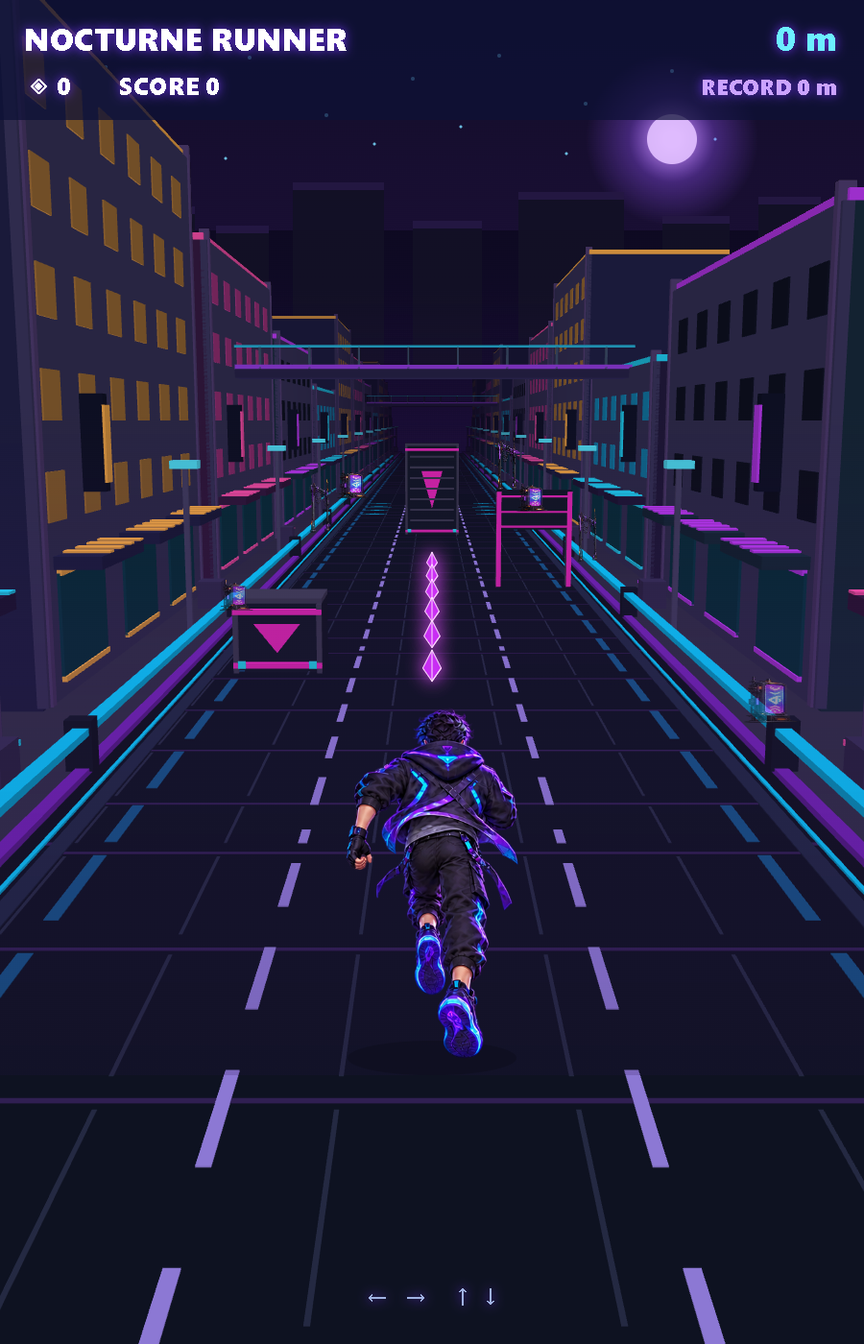
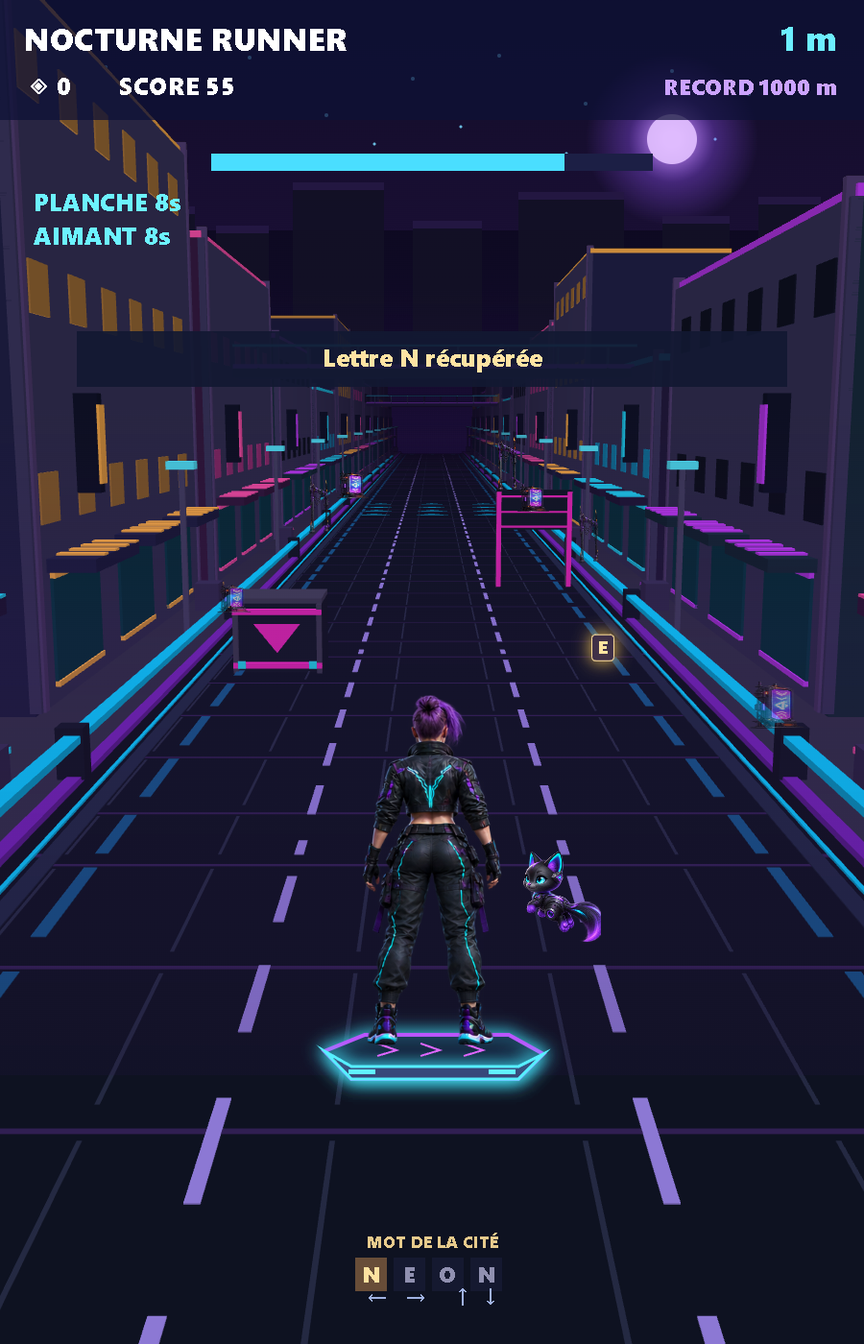
Add word collection, unlockable Nova and neon cat companion

diff --git a/profile.js b/profile.js
@@ -1,26 +1,47 @@
 (()=>{'use strict';
 const KEY='nocturneRunnerProfileV1',names={board:'Planche spectrale',magnet:'Aimant énergétique',surcharge:'Surcharge',propulsion:'Propulsion'},costs=[60,140,280,480,760];
-const profile={wallet:0,levels:{board:0,magnet:0,surcharge:0,propulsion:0},options:{effects:true,quality:'high'},stats:{crystals:0,distance:0,jumps:0,dodges:0},claimed:[]};
+const profile={wallet:0,levels:{board:0,magnet:0,surcharge:0,propulsion:0},options:{effects:true,quality:'high'},stats:{crystals:0,distance:0,jumps:0,dodges:0},claimed:[],word:{completed:0,found:[]},ownedPets:['robot'],pet:'robot',character:'runner'};
 let durable=true,audio=null;
-try{const data=JSON.parse(localStorage.getItem(KEY)||'null');if(data){for(const key of ['wallet'])profile[key]=Math.max(0,Math.floor(Number(data[key])||0));for(const key in profile.levels)profile.levels[key]=Math.max(0,Math.min(5,Math.floor(Number(data.levels?.[key])||0)));for(const key in profile.stats)profile.stats[key]=Math.max(0,Math.floor(Number(data.stats?.[key])||0));profile.options.effects=data.options?.effects!==false;profile.options.quality=data.options?.quality==='low'?'low':'high';profile.claimed=Array.isArray(data.claimed)?data.claimed.filter(v=>typeof v==='string'):[];}}catch{durable=false;}
+try{const data=JSON.parse(localStorage.getItem(KEY)||'null');if(data){for(const key of ['wallet'])profile[key]=Math.max(0,Math.floor(Number(data[key])||0));for(const key in profile.levels)profile.levels[key]=Math.max(0,Math.min(5,Math.floor(Number(data.levels?.[key])||0)));for(const key in profile.stats)profile.stats[key]=Math.max(0,Math.floor(Number(data.stats?.[key])||0));profile.options.effects=data.options?.effects!==false;profile.options.quality=data.options?.quality==='low'?'low':'high';profile.claimed=Array.isArray(data.claimed)?data.claimed.filter(v=>typeof v==='string'):[];}
+if(data){profile.word.completed=Math.max(0,Math.floor(Number(data.word?.completed)||0));profile.word.found=Array.isArray(data.word?.found)?data.word.found.map(v=>v===true):[];profile.ownedPets=Array.isArray(data.ownedPets)&&data.ownedPets.includes('cat')?['robot','cat']:['robot'];profile.pet=data.pet==='cat'&&profile.ownedPets.includes('cat')?'cat':'robot';profile.character=data.character==='nova'&&profile.word.completed>=4?'nova':'runner';}
+}catch{durable=false;}
 function save(){try{localStorage.setItem(KEY,JSON.stringify(profile));durable=true;}catch{durable=false;}refreshMenu();if(!durable)notice('Sauvegarde indisponible : progression conservée uniquement pendant cette session.');}
 function notice(s){document.querySelector('#notice').textContent=s;}
 profile.sound=frequency=>{if(!profile.options.effects)return;try{audio ||=new (window.AudioContext||window.webkitAudioContext)();if(audio.state==='suspended')audio.resume();const o=audio.createOscillator(),g=audio.createGain();o.frequency.value=frequency;o.type='sine';g.gain.setValueAtTime(.025,audio.currentTime);g.gain.exponentialRampToValueAtTime(.001,audio.currentTime+.07);o.connect(g);g.connect(audio.destination);o.start();o.stop(audio.currentTime+.08);}catch{}};
 profile.bankRun=(amount,distance,stats)=>{profile.wallet+=amount;profile.stats.crystals+=amount;profile.stats.distance=Math.max(profile.stats.distance,distance);profile.stats.jumps+=stats.jumps;profile.stats.dodges+=stats.dodges;save();};
+const words=[{label:'NÉON',letters:'NEON'},{label:'OMBRE',letters:'OMBRE'},{label:'NOVA',letters:'NOVA'},{label:'ÉCLIPSE',letters:'ECLIPSE'}];
+profile.currentWord=()=>words[profile.word.completed%words.length];
+profile.word.found=Array.from({length:profile.currentWord().letters.length},(_,i)=>profile.word.found[i]===true);
+profile.nextLetter=()=>{const slot=profile.word.found.findIndex(v=>!v);return {slot,letter:profile.currentWord().letters[slot],wordId:profile.word.completed};};
+profile.collectLetter=o=>{
+ if(o.wordId!==profile.word.completed||o.slot<0||o.slot>=profile.word.found.length||profile.word.found[o.slot]||profile.currentWord().letters[o.slot]!==o.letter)return null;
+ profile.word.found[o.slot]=true;let message='Lettre '+o.letter+' récupérée';
+ if(profile.word.found.every(Boolean)){const label=profile.currentWord().label,reward=50+profile.word.found.length*10;profile.wallet+=reward;profile.word.completed++;profile.word.found=Array(profile.currentWord().letters.length).fill(false);message=label+' complété · +'+reward+' ◈';if(profile.word.completed===4)message+=' · NOVA DÉBLOQUÉE';}
+ save();return message;
+};
+profile.buyPet=id=>{if(id!=='cat'||profile.ownedPets.includes(id)||profile.wallet<250)return false;profile.wallet-=250;profile.ownedPets.push(id);profile.pet=id;save();return true;};
+profile.equipPet=id=>{if(!profile.ownedPets.includes(id))return false;profile.pet=id;save();window.NRGame?.preview();return true;};
+profile.equipCharacter=id=>{if(id!=='runner'&&(id!=='nova'||profile.word.completed<4))return false;profile.character=id;save();window.NRGame?.preview();return true;};
+function wordTiles(){return '<div class="word-tiles">'+[...profile.currentWord().letters].map((c,i)=>'<span class="'+(profile.word.found[i]?'found':'')+'">'+c+'</span>').join('')+'</div>';}
+function characterCard(id,title,description){const nova=id==='nova',unlocked=!nova||profile.word.completed>=4;return '<article class="card collection-card"><canvas class="portrait '+(nova?'nova-portrait':'runner-portrait')+'" width="210" height="370" aria-hidden="true"></canvas><div><h3>'+title+'</h3><p>'+description+'</p>'+(nova&&!unlocked?'<p>'+Math.min(4,profile.word.completed)+'/4 mots complétés pour la débloquer.</p>':'')+'<button data-character="'+id+'" '+(!unlocked||profile.character===id?'disabled':'')+'>'+(profile.character===id?'Équipé':unlocked?'Équiper':'À gagner')+'</button></div></article>';}
 const missions=[{id:'crystals30',name:'Récolte nocturne',key:'crystals',goal:30,reward:40,unit:'cristaux au total'},{id:'distance250',name:'Première traversée',key:'distance',goal:250,reward:60,unit:'mètres en une course'},{id:'jumps15',name:'Au-dessus des néons',key:'jumps',goal:15,reward:40,unit:'sauts au total'},{id:'dodges20',name:'Instinct du runner',key:'dodges',goal:20,reward:60,unit:'obstacles évités'}];
+function paintPortraits(){document.querySelectorAll('canvas.portrait,canvas.cat-portrait').forEach(canvas=>{const nova=canvas.classList.contains('nova-portrait'),cat=canvas.classList.contains('cat-portrait');const image=new Image();image.onload=()=>{const rect=nova?NRSPRITES.nova.frames[0]:cat?NRSPRITES.cat.frames[0]:[0,0,image.naturalWidth,image.naturalHeight];const sc=Math.min((canvas.width-10)/rect[2],(canvas.height-10)/rect[3]);const w=rect[2]*sc,h=rect[3]*sc;canvas.getContext('2d').drawImage(image,...rect,(canvas.width-w)/2,(canvas.height-h)/2,w,h);};image.src=nova?'assets/nova-sheet.png':cat?'assets/cat-sheet.png':'nocturne runner/perso_dos/asset_01.png';});}
 let page='';
 window.NRProfile=profile;
 window.refreshMenu=()=>{document.querySelector('#wallet').textContent='◈ '+profile.wallet;};
 function levels(n){return '<div class="levels">'+Array.from({length:5},(_,i)=>'<i class="'+(i<n?'on':'')+'"></i>').join('')+'</div>';}
-function show(p){page=p;document.querySelector('#home-screen').hidden=true;document.querySelector('#detail-screen').hidden=false;document.querySelector('#notice').textContent='';const target=document.querySelector('#detail-content');document.querySelector('#detail-title').textContent={atelier:'Atelier',collection:'Collection',missions:'Missions',options:'Options'}[p];
+function show(p){page=p;document.querySelector('#home-screen').hidden=true;document.querySelector('#detail-screen').hidden=false;document.querySelector('#notice').textContent='';const target=document.querySelector('#detail-content');document.querySelector('#detail-title').textContent={atelier:'Atelier',collection:'Personnages',boutique:'Compagnons',words:'Mots de la cité',missions:'Missions',options:'Options'}[p];
 if(p==='atelier')target.innerHTML='<p class="intro">Investis tes cristaux. Chaque achat améliore les prochaines courses.</p>'+Object.keys(names).map(k=>{const n=profile.levels[k],next=k==='propulsion'?`${4+n} s · vitesse +${Math.round((.22+n*.035)*100)} %`:`${8+n*2} secondes`;return `<article class="card"><div class="card-head"><h3>${names[k]}</h3><span class="tag">${n}/5</span></div><p>${k==='board'?'Absorbe un choc.':k==='magnet'?'Un compagnon attire les cristaux des trois voies.':k==='surcharge'?'Double les points pendant le bonus.':'Un boost par course, bouton ⚡ ou touche B.'} ${next}</p>${levels(n)}<button data-buy="${k}" ${n===5||profile.wallet<costs[n]?'disabled':''}>${n===5?'NIVEAU MAX':`Améliorer · ${costs[n]} ◈`}</button></article>`;}).join('');
 if(p==='missions')target.innerHTML='<p class="intro">La progression est comptabilisée à la fin de chaque course.</p>'+missions.map(m=>{const value=Math.min(m.goal,profile.stats[m.key]),claimed=profile.claimed.includes(m.id);return `<article class="card"><h3>${m.name}</h3><p>${value}/${m.goal} ${m.unit}</p><progress value="${value}" max="${m.goal}"></progress><p>Récompense : ${m.reward} ◈</p><button data-claim="${m.id}" ${claimed||value<m.goal?'disabled':''}>${claimed?'Récupérée':'Récupérer'}</button></article>`;}).join('');
-if(p==='collection')target.innerHTML='<p class="intro">Ton équipement actuel est prêt. Les variantes arriveront dans une prochaine version.</p><article class="card"><div class="card-head"><h3>Runner Nocturne</h3><span class="tag">ÉQUIPÉ</span></div><p>Tenue noire, circuits violets et semelles cyan.</p></article><article class="card"><h3>Planche spectrale</h3><p>Disponible comme bonus pendant la course.</p></article><article class="card"><h3>Tenues et planches alternatives</h3><p>Bientôt · modèles et sélection à venir.</p></article>';
+if(p==='collection')target.innerHTML='<p class="intro">Choisis ton runner. Les personnages partagent les mêmes capacités.</p>'+characterCard('runner','Runner Nocturne','Le premier explorateur de la cité néon.')+characterCard('nova','Nova','Circuits cyan, cheveux violets et détermination. Complète NÉON, OMBRE, NOVA et ÉCLIPSE.');
+if(p==='boutique')target.innerHTML='<p class="intro">Ton compagnon vient à tes côtés pendant le bonus aimant. Même collecte, une autre personnalité.</p><article class="card collection-card"><div class="pet-icon">🤖</div><div><h3>Robot éclaireur</h3><p>Ton premier allié. Disponible gratuitement.</p><button data-pet="robot" '+(profile.pet==='robot'?'disabled':'')+'>'+(profile.pet==='robot'?'Équipé':'Équiper')+'</button></div></article><article class="card collection-card"><canvas class="cat-portrait" width="210" height="220" aria-hidden="true"></canvas><div><h3>Chat néon</h3><p>Un félin cyber qui attrape tes fragments.</p><button '+(profile.ownedPets.includes('cat')?'data-pet="cat"':'data-pet-buy="cat"')+' '+(profile.pet==='cat'||(!profile.ownedPets.includes('cat')&&profile.wallet<250)?'disabled':'')+'>'+(profile.pet==='cat'?'Équipé':profile.ownedPets.includes('cat')?'Équiper':'Adopter · 250 ◈')+'</button></div></article><article class="card"><div class="card-head"><h3>Renard spectral</h3><span class="tag">BIENTÔT</span></div><p>Un compagnon aux traces violettes. Modèle et animations à venir.</p></article><article class="card"><div class="card-head"><h3>Corbeau cyber</h3><span class="tag">BIENTÔT</span></div><p>Un éclaireur aux plumes lumineuses. Modèle et animations à venir.</p></article>';
+if(p==='words')target.innerHTML='<p class="intro">Ramasse les lettres dorées sur la route. Les accents ne sont pas à collecter. Chaque mot terminé rapporte des cristaux immédiatement.</p><article class="card"><div class="card-head"><h3>'+profile.currentWord().label+'</h3><span class="tag">'+(50+profile.word.found.length*10)+' ◈</span></div>'+wordTiles()+'<p>'+profile.word.completed+' mots complétés · progression sauvegardée à chaque lettre.</p></article><article class="card"><h3>Le chemin de Nova</h3><p>NÉON → OMBRE → NOVA → ÉCLIPSE</p><progress value="'+Math.min(4,profile.word.completed)+'" max="4"></progress><p>'+Math.min(4,profile.word.completed)+'/4 mots · '+(profile.word.completed>=4?'Nova est disponible dans Personnages.':'Complète cette série pour gagner Nova.')+'</p></article>';
 if(p==='options')target.innerHTML=`<article class="card"><label class="option">Effets sonores<input id="effects" type="checkbox" ${profile.options.effects?'checked':''}></label><label class="option">Qualité graphique<select id="quality"><option value="high" ${profile.options.quality==='high'?'selected':''}>Élevée</option><option value="low" ${profile.options.quality==='low'?'selected':''}>Économique</option></select></label><p>Économique : moins de fenêtres et d’effets lumineux.</p><div class="option">Musique <span class="tag">BIENTÔT</span></div></article><article class="card"><h3>Commandes</h3><p>← → : changer de voie<br>↑ ou espace : sauter<br>↓ : glisser sous les lasers<br>B : propulsion · Échap : pause<br>Mobile : gestes directionnels, bouton ⚡ pour le boost.</p><p>Caisse et barrière : saut ou esquive. Conteneur : esquive. Portique laser : glissade ou esquive.</p></article>`;
+paintPortraits();
 }
 document.querySelectorAll('[data-page]').forEach(b=>b.addEventListener('click',()=>show(b.dataset.page)));
 document.querySelector('#back').addEventListener('click',()=>{document.querySelector('#detail-screen').hidden=true;document.querySelector('#home-screen').hidden=false;notice('');});
-document.querySelector('#detail-content').addEventListener('click',e=>{const b=e.target.closest('button');if(!b||b.disabled)return;if(b.dataset.buy){const k=b.dataset.buy,n=profile.levels[k];if(n>=5||profile.wallet<costs[n])return;profile.wallet-=costs[n];profile.levels[k]++;save();show(page);notice(names[k]+' améliorée.');}if(b.dataset.claim){const m=missions.find(m=>m.id===b.dataset.claim);if(!m||profile.claimed.includes(m.id)||profile.stats[m.key]<m.goal)return;profile.claimed.push(m.id);profile.wallet+=m.reward;save();show(page);notice('+'+m.reward+' cristaux reçus.');}});
+document.querySelector('#detail-content').addEventListener('click',e=>{const b=e.target.closest('button');if(!b||b.disabled)return;let message='';if(b.dataset.petBuy&&profile.buyPet(b.dataset.petBuy))message='Chat néon adopté et équipé.';if(b.dataset.pet&&profile.equipPet(b.dataset.pet))message='Compagnon équipé.';if(b.dataset.character&&profile.equipCharacter(b.dataset.character))message='Personnage équipé.';if(message){show(page);notice(message);return;}if(b.dataset.buy){const k=b.dataset.buy,n=profile.levels[k];if(n>=5||profile.wallet<costs[n])return;profile.wallet-=costs[n];profile.levels[k]++;save();show(page);notice(names[k]+' améliorée.');}if(b.dataset.claim){const m=missions.find(m=>m.id===b.dataset.claim);if(!m||profile.claimed.includes(m.id)||profile.stats[m.key]<m.goal)return;profile.claimed.push(m.id);profile.wallet+=m.reward;save();show(page);notice('+'+m.reward+' cristaux reçus.');}});
 document.querySelector('#detail-content').addEventListener('change',e=>{if(e.target.id==='effects'){profile.options.effects=e.target.checked;profile.sound(700);}if(e.target.id==='quality')profile.options.quality=e.target.value;save();});
 refreshMenu();if(!durable)notice('Sauvegarde indisponible dans ce navigateur.');
 })();

diff --git a/game.js b/game.js
@@ -21,7 +21,7 @@
   let board = 0, jump = 0, slide = 0, stun = 0;
   let last = 0, frame = 0;
   let best = 0;
-  let collectedFragments=[];
+  let collectedFragments=[],wordToast='',wordToastTime=0;
   let magnet=0, surcharge=0, propulsion=0, chargeReady=true, wave=0, safeLane=1;
   let runStats={jumps:0, dodges:0};
   const duration=k=>8+NRProfile.levels[k]*2;
@@ -31,6 +31,7 @@
 
   const img = {};
   const manifest = {
+    novaSheet:'@assets/nova-sheet.png',catSheet:'@assets/cat-sheet.png',
     run: ['perso_dos/asset_04.png', 'perso_dos/asset_05.png', 'perso_dos/asset_04.png', 'perso_dos/asset_06.png'],
     idle: 'perso_dos/asset_01.png',
     jump: 'perso_dos/asset_07.png',
@@ -78,7 +79,7 @@
   function load(p) {
     const i = new Image();
     i.onload = () => { if (state !== 'playing') render(); };
-    i.src = 'nocturne runner/' + p;
+    i.src = p.startsWith('@') ? p.slice(1) : 'nocturne runner/' + p;
     return i;
   }
 
@@ -119,7 +120,7 @@
     lane = px = 1;
     dist = score = orbs = scroll = frame = 0;
     objects = [];
-    collectedFragments=[]; wave=0; safeLane=1; magnet=surcharge=propulsion=0; chargeReady=true; runStats={jumps:0,dodges:0};
+    collectedFragments=[]; wordToast='';wordToastTime=0; wave=0; safeLane=1; magnet=surcharge=propulsion=0; chargeReady=true; runStats={jumps:0,dodges:0};
     for(let z=-26;z>-150;z-=24) spawnObj(z);
     speed = 0.34;
     spawn = 26;
@@ -212,9 +213,11 @@
     for(const l of blocked.slice(0,count))objects.push({lane:l,z,type:hazards[wave%4],hit:false});
     for(let j=0;j<5;j++)objects.push({lane:safeLane,z:z+5-j*2.3,type:'crystal',hit:false});
     if(wave%3===1)objects.push({lane:safeLane,z:z-9,type:['board','magnet','surcharge'][Math.floor(wave/3)%3],hit:false});
+    if(wave%2===0){const w=NRProfile.currentWord();const available=[...w.letters].map((letter,slot)=>({letter,slot,wordId:NRProfile.word.completed})).filter(o=>!NRProfile.word.found[o.slot]&&!objects.some(p=>p.type==='letter'&&!p.hit&&p.wordId===o.wordId&&p.slot===o.slot));if(available.length)objects.push({lane:safeLane,z:z-13,type:'letter',hit:false,...available[0]});}
     wave++;
   }
   function update(dt){
+    wordToastTime=Math.max(0,wordToastTime-dt);
     collectedFragments=collectedFragments.filter(f=>(f.time-=dt)>0);
     px+=(lane-px)*Math.min(1,dt*15);
     const base=Math.min(.73,.34+dist/7000);
@@ -234,6 +237,7 @@
       if(!o.hit&&((crossing&&(close||collect))||(magnet>0&&o.type==='crystal'&&o.z>-7&&o.z<2.4))){
         o.hit=true;
         if(o.type==='crystal'){if(magnet>0){const q=projectWorld((o.lane-1)*3.66,1.05,o.z);if(q)collectedFragments.push({x:q.x,y:q.y,time:.45});}orbs++;score+=10*(surcharge>0?2:1);NRProfile.sound(900);}
+        else if(o.type==='letter'){const result=NRProfile.collectLetter(o);if(result){wordToast=result;wordToastTime=4;score+=50;NRProfile.sound(1100);}}
         else if(o.type==='board'){board=duration('board');NRProfile.sound(500);}
         else if(o.type==='magnet'){magnet=duration('magnet');NRProfile.sound(700);}
         else if(o.type==='surcharge'){surcharge=duration('surcharge');NRProfile.sound(800);}
@@ -471,12 +475,15 @@
   function entities(){
     for(const o of objects.slice().sort((a,b)=>a.z-b.z)){
       if(o.hit||o.z>10)continue;
+      if(o.type==='letter'&&(o.wordId!==NRProfile.word.completed||NRProfile.word.found[o.slot]))continue;
       if(window.NR3D&&hazards.includes(o.type))continue;
-      const pos=projectWorld((o.lane-1)*3.66,o.type==='crystal'?1.05:0,o.z);if(!pos)continue;
+      const pos=projectWorld((o.lane-1)*3.66,(o.type==='crystal'||o.type==='letter')?1.05:0,o.z);if(!pos)continue;
       const size=95*Math.max(.12,Math.min(2.2,pos.scale));
       if(o.type==='crystal'){
         ctx.save();ctx.translate(pos.x,pos.y);ctx.shadowColor='#e84cff';ctx.shadowBlur=NRProfile.options.quality==='low'?0:18;
         ctx.beginPath();ctx.moveTo(0,-size*.55);ctx.lineTo(size*.28,0);ctx.lineTo(0,size*.4);ctx.lineTo(-size*.28,0);ctx.closePath();ctx.fillStyle='#c42af1';ctx.fill();ctx.strokeStyle='#ffe0ff';ctx.lineWidth=Math.max(1,size*.025);ctx.stroke();ctx.beginPath();ctx.moveTo(0,-size*.55);ctx.lineTo(0,size*.4);ctx.lineTo(size*.28,0);ctx.stroke();ctx.restore();
+       }else if(o.type==='letter'){
+        ctx.save();ctx.translate(pos.x,pos.y);ctx.strokeStyle='#ffe09b';ctx.fillStyle='#352746';ctx.shadowColor='#f8c954';ctx.shadowBlur=18;ctx.lineWidth=Math.max(1,size*.025);ctx.beginPath();ctx.roundRect(-size*.36,-size*.53,size*.72,size*.85,size*.12);ctx.fill();ctx.stroke();text(o.letter,0,size*.10,size*.6,'center','#ffe4a0');ctx.restore();
       }else if(o.type==='board'){ctx.save();ctx.translate(pos.x,pos.y-size*.3);ctx.scale(size/160,size/160);hoverboard(0,0);ctx.restore();
       }else if(!hazards.includes(o.type)){
         ctx.fillStyle='#11172d';ctx.strokeStyle=o.type==='board'?'#bc56ff':'#53efff';ctx.lineWidth=3;ctx.fillRect(pos.x-size*.45,pos.y-size,size*.9,size*.9);ctx.strokeRect(pos.x-size*.45,pos.y-size,size*.9,size*.9);
@@ -501,7 +508,9 @@
     for(const f of collectedFragments){const t=1-f.time/.45,e=1-Math.pow(1-t,2),fx=f.x+(cx-f.x)*e,fy=f.y+(cy-f.y)*e;
       ctx.globalAlpha=1-t*.5;ctx.strokeStyle='#dd5aff';ctx.lineWidth=2;ctx.beginPath();ctx.moveTo(fx-8,fy);ctx.lineTo(fx,fy-15);ctx.lineTo(fx+8,fy);ctx.lineTo(fx,fy+12);ctx.closePath();ctx.stroke();
     }
-    ctx.globalAlpha=1;ctx.translate(cx,cy);ctx.shadowColor='#6debff';ctx.shadowBlur=15;
+    ctx.globalAlpha=1;
+    if(NRProfile.pet==='cat'&&img.catSheet.complete&&img.catSheet.naturalWidth){const index=collectedFragments.length?1:Math.floor(frame/3)%4;drawSprite(img.catSheet,NRSPRITES.cat.frames[index],cx,cy+44,95*NRSPRITES.cat.frames[index][3]/NRSPRITES.cat.frames[0][3]);ctx.restore();return;}
+    ctx.translate(cx,cy);ctx.shadowColor='#6debff';ctx.shadowBlur=15;
     ctx.fillStyle='#152943';ctx.strokeStyle='#64eaff';ctx.lineWidth=2.5;
     ctx.beginPath();ctx.roundRect(-25,-33,50,39,12);ctx.fill();ctx.stroke();
     ctx.fillStyle='#050e20';ctx.fillRect(-17,-21,34,17);ctx.fillStyle='#70f3ff';for(const dx of [-10,10])ctx.fillRect(dx-3,-16,6,7);
@@ -511,6 +520,10 @@
     ctx.fillStyle='#ff8cea';ctx.beginPath();ctx.arc(0,-47,4,0,Math.PI*2);ctx.fill();
     const glow=ctx.createRadialGradient(0,43,1,0,43,20);glow.addColorStop(0,'#62eaffaa');glow.addColorStop(1,'#62eaff00');ctx.fillStyle=glow;ctx.fillRect(-22,34,44,33);
     ctx.restore();
+  }
+  function drawSprite(image,rect,x,feet,height){
+    if(!image?.complete||!image.naturalWidth||!rect)return;
+    const width=height*rect[2]/rect[3];ctx.drawImage(image,rect[0],rect[1],rect[2],rect[3],x-width/2,feet-height,width,height);
   }
   function player(){
     const foot=projectWorld((px-1)*3.66,0,2.4),x=foot?foot.x:CX+(px-1)*215,ground=foot?foot.y:1106;
@@ -523,7 +536,11 @@
     const feet=ground-lift-hover;
     ctx.fillStyle='rgba(5,8,20,.42)';ctx.beginPath();ctx.ellipse(x,ground+5,board>0?105:70,15,0,0,Math.PI*2);ctx.fill();
     if(board>0)hoverboard(x,feet+14);
-    const {w}=imageSize(im,h);draw(im,x-w/2,feet-h,w,h);
+    if(NRProfile.character==='nova'&&img.novaSheet.complete&&img.novaSheet.naturalWidth){
+      const pose=jump>0?3:slide>0?4:board>0||state==='over'?0:1+Math.floor(frame/2)%2;
+      const rect=NRSPRITES.nova.frames[pose];
+      drawSprite(img.novaSheet,rect,x,feet,pose===4?210:365*rect[3]/NRSPRITES.nova.frames[0][3]);
+    }else{const {w}=imageSize(im,h);draw(im,x-w/2,feet-h,w,h);}
     if(magnet>0)companion(x,feet);
   }
 
@@ -541,6 +558,10 @@
       ctx.fillRect(220, 160, 460 * (board / duration('board')), 18);
     }
     let y=220;for(const [name,t] of [['PLANCHE',board],['AIMANT',magnet],['SCORE ×2',surcharge],['PROPULSION',propulsion]])if(t>0){text(name+' '+Math.ceil(t)+'s',35,y,25,'left','#6cf2ff');y+=35;}
+    const letters=NRProfile.currentWord().letters,found=NRProfile.word.found;
+    text('MOT DE LA CITÉ',450,1300,17,'center','#e6ca8c');
+    const total=letters.length*40;for(let i=0;i<letters.length;i++){const lx=450-total/2+i*40;ctx.fillStyle=found[i]?'#684d38':'#151930';ctx.fillRect(lx,1310,33,35);text(letters[i],lx+16,1336,23,'center',found[i]?'#ffe1a0':'#9090b0');}
+    if(wordToastTime>0){ctx.fillStyle='#121832e8';ctx.fillRect(80,345,740,58);text(wordToast,450,382,wordToast.length>45?20:25,'center','#ffe3a3');}
     text('←  →    ↑  ↓', 450, 1360, 27, 'center', '#a0b2e2');
   }
 
@@ -562,8 +583,9 @@
     if (state === 'playing') requestAnimationFrame(loop);
   }
 
-  window.NRGame={home(){if(state==='playing')return;state='menu';showOverlay('LA CITÉ T’ATTEND','JOUER');msg.textContent='Trois voies. Une cité. Repousse tes limites.';pauseBtn.classList.add('hidden');document.querySelector('#boost-control').classList.add('hidden');render();},activateBoost};
+  window.NRGame={preview(){if(state!=='playing')render();},home(){if(state==='playing')return;state='menu';showOverlay('LA CITÉ T’ATTEND','JOUER');msg.textContent='Trois voies. Une cité. Repousse tes limites.';pauseBtn.classList.add('hidden');document.querySelector('#boost-control').classList.add('hidden');render();},activateBoost};
   document.querySelector('#boost-control').addEventListener('click',activateBoost);
   objects=[{lane:0,z:-18,type:'crate',hit:false},{lane:2,z:-34,type:'laser',hit:false},{lane:1,z:-57,type:'container',hit:false},...Array.from({length:6},(_,i)=>({lane:1,z:-12-i*4,type:'crystal',hit:false}))];
+  objects.push({lane:2,z:-15,type:'letter',hit:false,...NRProfile.nextLetter()});
   render();
 })();

diff --git a/menu.css b/menu.css
@@ -1,1 +1,5 @@
 *{box-sizing:border-box}body{margin:0;background:#070917;color:#eef3ff;font:500 15px system-ui,Arial;overflow:hidden}button,input{font:inherit}button{cursor:pointer;color:inherit}button:focus-visible,input:focus-visible{outline:3px solid #65eeff;outline-offset:4px}[hidden],.hidden{display:none!important}#app{height:100dvh;display:flex;justify-content:center;align-items:center;background:radial-gradient(ellipse,#241a47,#060713 80%)}canvas{height:100%;max-width:100%;object-fit:contain;touch-action:none}#overlay{position:fixed;inset:0;display:grid;place-items:center;padding:18px;background:linear-gradient(90deg,#07081788,#08091944,#080919aa);backdrop-filter:blur(3px)}.panel{position:relative;width:min(100%,520px);max-height:94dvh;overflow-y:auto;padding:26px;background:linear-gradient(140deg,#161d38f5,#130c28f5);border:1px solid #7964bc;border-radius:24px;box-shadow:0 20px 100px #040410,0 0 38px #ab36ff24}header{display:flex;justify-content:space-between;align-items:center}.eyebrow{font-size:11px;letter-spacing:2px;color:#a5b9d8}.wallet{border:1px solid #9c4ae0;background:#49216c66;padding:8px 14px;border-radius:30px;color:#f3b3ff;font-weight:800}.brand{font-size:clamp(33px,8vw,53px);font-style:italic;font-weight:950;letter-spacing:-2px;line-height:.98;margin:32px 0 24px;text-shadow:0 0 24px #687fff66}.brand span{display:block;color:#e869ff;letter-spacing:7px;font-size:.65em;margin-top:8px}#msg{color:#bed0e6;line-height:1.6;margin:16px 0 24px}.primary{width:100%;display:flex;justify-content:space-between;padding:18px 23px;border:0;border-radius:12px;background:linear-gradient(100deg,#9231ea,#d546ed 55%,#32cbea);font-weight:900;letter-spacing:2px;box-shadow:0 8px 32px #ac30de30}nav{display:grid;grid-template-columns:1fr 1fr;gap:10px;margin-top:19px}nav button,.card{background:#11192dee;border:1px solid #34425e;border-radius:12px;padding:16px;text-align:left}nav button:hover,.back:hover{border-color:#d263f3}nav small{display:block;margin-top:7px;color:#899bb7;font-size:11px}.hint{text-align:center;font-size:11px;line-height:1.8;color:#8295b1;margin:21px 0}footer{border-top:1px solid #2c304b;padding-top:14px;font-size:10px;letter-spacing:2px;color:#71809d}.back{background:transparent;border:1px solid #364460;border-radius:8px;padding:8px 12px;margin-top:18px}h2{font-size:29px;margin-bottom:10px}.intro{color:#9cafca;line-height:1.6;font-size:13px}.card{margin:10px 0}.card-head{display:flex;justify-content:space-between;gap:12px}.card h3{margin:0;font-size:15px}.card p{font-size:12px;color:#a6b8d0;line-height:1.5}.card button{border:1px solid #8745c6;background:#44265d;border-radius:8px;padding:9px 13px;font-weight:700;white-space:nowrap;font-size:12px}.card button:disabled{opacity:.45;cursor:default}.levels{display:flex;gap:5px;margin:10px 0}.levels i{height:5px;flex:1;background:#2c3550;border-radius:10px}.levels i.on{background:linear-gradient(90deg,#c254fa,#51dcff)}.tag{font-size:10px;letter-spacing:1px;color:#a894c0}.option{display:flex;justify-content:space-between;align-items:center;gap:15px;padding:13px 0}.option select{background:#17253c;color:#dcf4ff;border:1px solid #536889;border-radius:7px;padding:8px}.results{display:grid;grid-template-columns:1fr 1fr;gap:10px}.results span{border:1px solid #33394f;border-radius:10px;padding:12px;font-size:12px}.results strong{display:block;font-size:22px;color:#e4a0ff}#pause,#boost-control{position:fixed;border:1px solid #54ddef;background:#0c1531dd;border-radius:10px;color:#bdf5ff;padding:10px 15px}#pause{top:15px;right:15px}#boost-control{bottom:35px;right:18px;font-size:12px;font-weight:800}#boost-control:disabled{opacity:.5}#notice{color:#75e8fc;font-size:12px;margin-top:10px}progress{width:100%;height:7px;accent-color:#c364f5}@media(max-width:440px){.panel{padding:20px;border-radius:18px}nav button{padding:13px}.brand{margin-top:24px}#boost-control{bottom:18px}}
+
+.word-tiles{display:flex;flex-wrap:wrap;gap:7px;margin:20px 0}.word-tiles span{width:35px;height:44px;display:grid;place-items:center;border:1px solid #6b547b;border-radius:8px;background:#211a31;color:#827a92;font-weight:900;font-size:20px}.word-tiles .found{color:#ffe9a7;border-color:#e3bf64;background:#4c372c;box-shadow:0 0 16px #efba332a}.collection-card{display:grid;grid-template-columns:105px 1fr;gap:16px;align-items:center}.portrait{height:185px;background-repeat:no-repeat}.runner-portrait{background-image:url('nocturne%20runner/perso_dos/asset_01.png');background-size:contain;background-position:center}.nova-portrait{background-image:url('assets/nova-sheet.png');background-size:300% 200%;background-position:left top}.cat-portrait{height:110px;background:url('assets/cat-sheet.png') no-repeat left center;background-size:400% 100%}.pet-icon{font-size:50px;text-align:center}@media(max-width:440px){.collection-card{grid-template-columns:75px 1fr;gap:12px}.portrait{height:150px}.word-tiles{gap:5px}.word-tiles span{width:30px}}
+
+canvas.portrait,canvas.cat-portrait{width:100%;max-width:100%;height:auto;background:none;object-fit:contain;touch-action:auto}

diff --git a/index.html b/index.html
@@ -1,2 +1,1 @@
-<!doctype html><html lang="fr"><head><meta charset="utf-8"><meta name="viewport" content="width=device-width,initial-scale=1,viewport-fit=cover"><title>Nocturne Runner · v0.9.2</title><link rel="stylesheet" href="menu.css"></head><body><div id="app"><canvas id="game" width="900" height="1400"></canvas></div><button id="pause" class="hidden" aria-label="Pause">Ⅱ</button><button id="boost-control" class="hidden">⚡ BOOST · B</button><div id="overlay"><main class="panel"><header><span class="eyebrow">NOCTURNE / RUNNER</span><span class="wallet" id="wallet">◈ 0</span></header><section id="home-screen"><div class="brand">NOCTURNE<span>RUNNER</span></div><div class="eyebrow" id="screen-title">LA CITÉ T’ATTEND</div><div id="msg">Trois voies. Une cité. Repousse tes limites.</div><button id="start" class="primary">JOUER <span>→</span></button><nav><button data-page="atelier">◈ Atelier<small>Améliore tes bonus</small></button><button data-page="collection">◆ Collection<small>Personnages & planches</small></button><button data-page="missions">◎ Missions<small>Gagne des cristaux</small></button><button data-page="options">⚙ Options<small>Ton expérience de jeu</small></button></nav><p class="hint">← → Voies · ↑ Saut · ↓ Glissade · B Boost<br>Mobile : gestes directionnels et bouton boost</p></section><section id="detail-screen" hidden><button id="back" class="back">← Retour</button><h2 id="detail-title"></h2><div id="detail-content"></div></section><footer>PROTOTYPE v0.9.2 · CITÉ NÉON</footer><div id="notice" role="status" aria-live="polite"></div></main></div><script src="profile.js"></script><script src="road3d.js"></script><script src="game.js"></script></body></html>
-
+<!doctype html><html lang="fr"><head><meta charset="utf-8"><meta name="viewport" content="width=device-width,initial-scale=1,viewport-fit=cover"><title>Nocturne Runner · v0.10.0</title><link rel="stylesheet" href="menu.css"></head><body><div id="app"><canvas id="game" width="900" height="1400"></canvas></div><button id="pause" class="hidden" aria-label="Pause">Ⅱ</button><button id="boost-control" class="hidden">⚡ BOOST · B</button><div id="overlay"><main class="panel"><header><span class="eyebrow">NOCTURNE / RUNNER</span><span class="wallet" id="wallet">◈ 0</span></header><section id="home-screen"><div class="brand">NOCTURNE<span>RUNNER</span></div><div class="eyebrow" id="screen-title">LA CITÉ T’ATTEND</div><div id="msg">Trois voies. Une cité. Repousse tes limites.</div><button id="start" class="primary">JOUER <span>→</span></button><nav><button data-page="atelier">◈ Atelier<small>Améliore tes bonus</small></button><button data-page="collection">◆ Personnages<small>Nova à débloquer</small></button><button data-page="boutique">♧ Compagnons<small>Adopte un allié néon</small></button><button data-page="words">✧ Mots de la cité<small>Lettres & récompenses</small></button><button data-page="missions">◎ Missions<small>Gagne des cristaux</small></button><button data-page="options">⚙ Options<small>Ton expérience de jeu</small></button></nav><p class="hint">← → Voies · ↑ Saut · ↓ Glissade · B Boost<br>Mobile : gestes directionnels et bouton boost</p></section><section id="detail-screen" hidden><button id="back" class="back">← Retour</button><h2 id="detail-title"></h2><div id="detail-content"></div></section><footer>PROTOTYPE v0.10.0 · CITÉ NÉON</footer><div id="notice" role="status" aria-live="polite"></div></main></div><script src="profile.js"></script><script src="road3d.js"></script><script src="assets/sprites.js"></script><script src="game.js"></script></body></html>

diff --git a/assets/sprites.js b/assets/sprites.js
@@ -1,0 +1,1 @@
+window.NRSPRITES={"nova": {"size": [1536, 1024], "frames": [[194, 8, 197, 496], [652, 7, 204, 499], [1143, 12, 203, 494], [106, 545, 389, 396], [572, 634, 422, 376], [1143, 519, 195, 492]]}, "cat": {"size": [2172, 724], "frames": [[63, 110, 480, 558], [543, 110, 543, 543], [1086, 39, 527, 604], [1671, 110, 481, 545]]}};

diff --git a/README.md b/README.md
@@ -1,22 +1,45 @@
 # Nocturne Runner
 
-Prototype v0.9.2 d'un endless runner dans une cité néon.
+Prototype v0.10.0 : endless runner dans une cité néon.
 
 ## Jouer
 
-Ouvrir `index.html` dans Chrome ou Edge, ou servir le dossier avec un serveur local. Aucun téléchargement externe n'est nécessaire.
+Ouvrir `index.html` dans Chrome ou Edge, ou servir le dossier avec un serveur local. Aucun téléchargement externe n'est nécessaire pour jouer.
 
-- Flèches gauche/droite : changer de voie.
-- Flèche haut ou espace : sauter.
-- Flèche bas : glisser.
-- B : propulsion, une activation par course.
-- Échap : pause.
+- ← → : changer de voie ; ↑ ou espace : sauter ; ↓ : glisser.
+- B : propulsion, une activation par course ; Échap : pause.
 - Mobile : gestes directionnels et bouton propulsion.
 
-## Fonctionnalités
+## Mots de la cité
 
-Corridor 3D, quatre types d'obstacles, cristaux, portefeuille local, atelier, missions et options. Planche néon sous les pieds et compagnon robot pendant le bonus aimant.
+Collecter les lettres holographiques dorées pour compléter la série **NÉON → OMBRE → NOVA → ÉCLIPSE**. Les accents ne sont pas à ramasser. Les lettres d'un même mot peuvent être récupérées dans n'importe quel ordre.
 
-La progression est sauvegardée dans le navigateur. Musique et variantes de personnages sont prévues.
+Chaque lettre est sauvegardée immédiatement. Récompenses : 90 / 100 / 90 / 120 cristaux. Après quatre mots, **Nova** devient disponible dans Personnages. La série recommence ensuite et continue à rapporter des cristaux.
 
-Voir `README.txt` pour les règles, améliorations et vérifications du prototype.
+L'aimant ramasse les cristaux uniquement : les lettres se récupèrent en passant dans leur voie.
+
+## Compagnons et personnages
+
+- Robot éclaireur : gratuit, équipé par défaut.
+- Chat néon : 250 cristaux, achat unique et sélection sauvegardée.
+- Compagnons visibles pendant l'aimant, avec animation de collecte.
+- Renard spectral et corbeau cyber : annoncés « Bientôt », sans achat.
+- Nova possède ses poses debout, course, saut et glissade. Les personnages ont les mêmes capacités.
+
+## Sauvegarde
+
+Le portefeuille, les améliorations, les missions, les mots et les choix équipés sont conservés dans le navigateur. La clé de sauvegarde de v0.9 est conservée et enrichie. Garder le même navigateur et la même adresse de jeu pour retrouver sa progression.
+
+Les cristaux de course sont versés à la fin de la course. Les récompenses des mots sont versées immédiatement. Musique et autres variantes restent à venir.
+
+## Assets
+
+Visuels originaux créés avec ImageGen intégré : `assets/nova-sheet.png` et `assets/cat-sheet.png`. Coordonnées des poses dans `assets/sprites.js`, prompts complets dans [assets/ASSETS.md](assets/ASSETS.md).
+
+## Vérification
+
+`tests/browser-smoke.cjs` couvre collisions, génération, collecte, achats, migration v0.9, progression des mots, déblocage de Nova et sauvegarde des sélections.
+
+Pour relancer les tests : installer les dépendances de développement avec `npm install`, installer Chromium avec `npx playwright install chromium`, puis lancer `npm test`. Pour utiliser Chrome existant, définir `NOCTURNE_CHROME` avec le chemin de son exécutable.
+
+Les dépendances de développement ne sont pas nécessaires pour jouer. Affichage vérifié dans Chrome à 900 × 1400 et 390 × 844. Téléphone physique non testé.

diff --git a/assets/ASSETS.md b/assets/ASSETS.md
@@ -1,0 +1,15 @@
+# Assets v0.10
+
+Visuels originaux générés avec l’outil intégré ImageGen, sur fond transparent. Les fichiers PNG sont conservés sans retouche ; sprites.js décrit les zones utilisées pour les poses.
+
+- nova-sheet.png : six poses de Nova (debout, deux pas de course, saut, glissade, debout).
+- cat-sheet.png : quatre poses du chat néon (repos, capture, queue levée, retour au repos).
+- sprites.js : coordonnées de lecture de chaque pose.
+
+## Prompt Nova
+
+Use case: stylized-concept. Asset type: transparent game sprite sheet. Create ONE sprite sheet of NOVA, an adult female cyberpunk runner, for Nocturne Runner. Exactly SIX equal cells in a 3-column 2-row grid, no grid lines. Each cell has one isolated full body character entirely inside it with generous transparent margins. All poses are viewed FROM BEHIND, consistent character design, camera at waist height slightly elevated. Top row left: standing upright with both feet down (hoverboard stance, no board). Top row middle: running left leg forward. Top row right: running right leg forward. Bottom row left: airborne jumping knees bent. Bottom row middle: crouching low sliding forward seen from behind. Bottom row right: upright standing rear view again. Nova wears a black fitted functional jacket and dark cargo trousers with bright cyan circuit stripes, violet accents, cyan sneaker soles, violet short ponytail. Athletic realistic adult proportions, fully clothed. Detailed polished stylized 3D render with strong silhouette like a dark futuristic endless runner. CONSISTENT SCALE for upright poses and foot baseline within every cell; slide stays at baseline and is shorter. Canvas landscape, each cell tall enough for body. TRUE transparent background including all gaps, no backdrop, no shadow disk, no lettering, no watermark, no other characters.
+
+## Prompt chat néon
+
+Use case: stylized-concept. Asset type: transparent game sprite sheet. Create ONE sprite sheet of a cute small cyber CAT companion for a neon endless runner. Exactly FOUR equal square cells in one horizontal row, no grid lines or lettering. Same single cat in all cells, entire body inside each cell with wide transparent margins. Black graphite body with violet fur/armor highlights, turquoise glowing eyes, cyan ear edges, violet paws, long flowing tail. Friendly compact round head, pointy cat ears, clear cat silhouette, consistent design, polished detailed stylized 3D game render. Three-quarter rear-side view facing left toward the runner, face slightly visible. Frames from left: floating idle paws relaxed; floating paws reaching forward to catch a crystal (NO crystal depicted); floating tail raised; floating paws returning to rest. No wings, no collar text. True transparent background between and around all cats. No ground, no shadow, no text, no environment, no UI.
